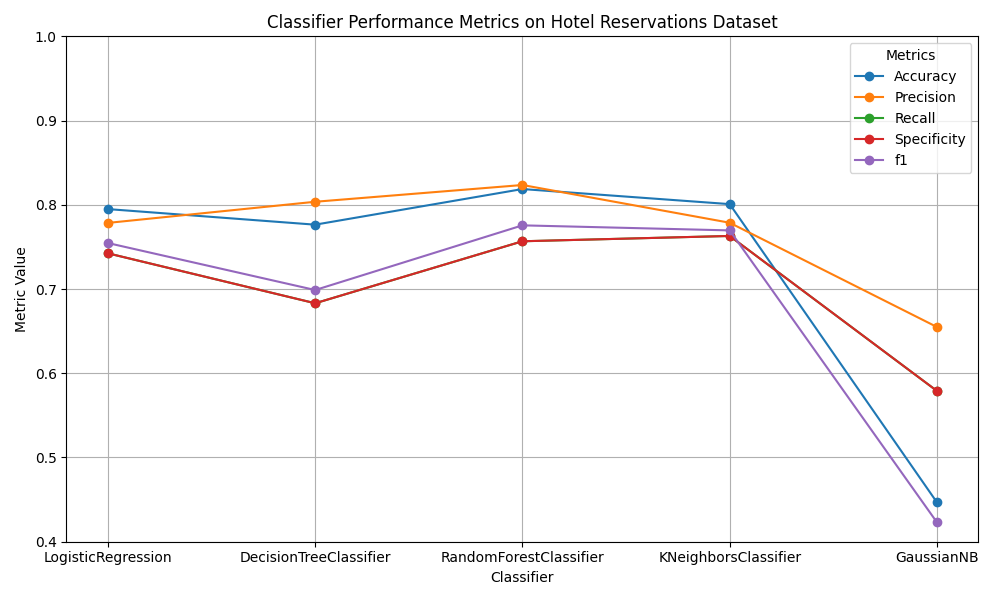
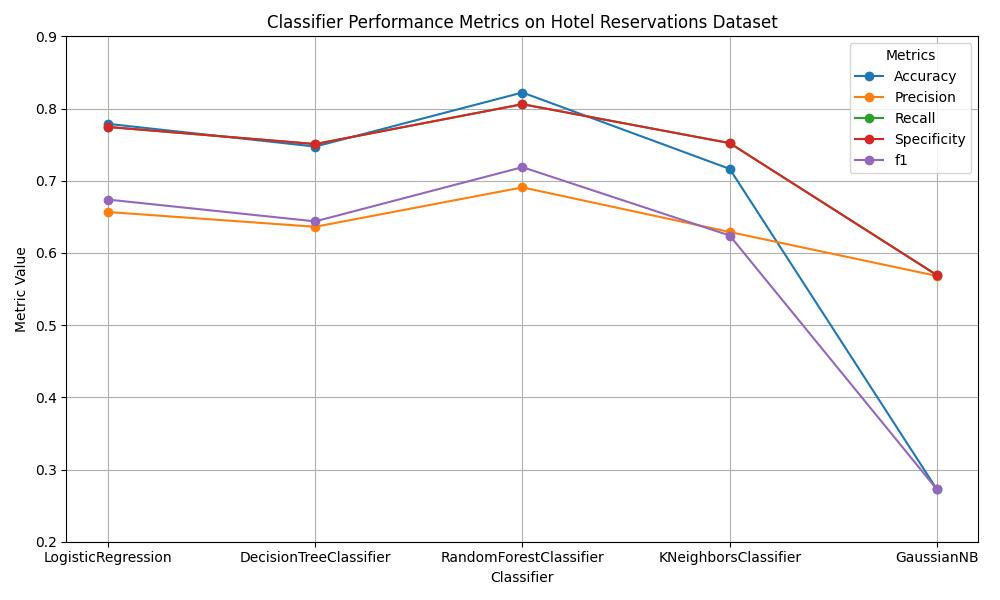
figure update

diff --git a/src/data_prep.py b/src/data_prep.py
@@ -1,6 +1,7 @@
 import numpy as np
 import pandas as pd
 from sklearn.model_selection import train_test_split
+from collections import Counter
 
 # 1. Load Data and Define the Features and Target
 pd.options.display.max_columns = None
@@ -32,6 +33,10 @@ df['market_segment_type'] = (
     np.where(df['market_segment_type'] == 'Complementary', 5, df['market_segment_type']))))))
 df["booking_status"] = np.where(df["booking_status"] == "Canceled", 0, 1)
 
+# Check if there is an imbalance in the classes present in your target variable
+xx = df['booking_status'].value_counts().reset_index()
+print(xx)
+
 X, y = (df[['no_of_adults', 'no_of_children', 'no_of_weekend_nights', 'no_of_week_nights',
             'type_of_meal_plan', 'required_car_parking_space', 'room_type_reserved', 'lead_time', 'arrival_year',
             'arrival_month', 'arrival_date', 'market_segment_type', 'repeated_guest', 'no_of_previous_cancellations',
@@ -39,4 +44,35 @@ X, y = (df[['no_of_adults', 'no_of_children', 'no_of_weekend_nights', 'no_of_wee
         df['booking_status'])
 
 # Split dataset into training and test sets
-X_train, X_test, y_train, y_test = train_test_split(X, y, test_size=0.2, random_state=42)
+X_train, X_test, y_train, y_test = train_test_split(X, y, test_size=0.2, random_state=42, stratify=y)
+
+print(f"Initial y_train class distribution: {Counter(y_train)}")
+print(f"Initial y_test class distribution: {Counter(y_test)}")
+
+# Balancing by moving samples (adjusting train-test split)
+num_class_0_train = sum(y_train == 0)
+num_class_1_train = sum(y_train == 1)
+
+# We want to move some samples from class 1 in y_train to y_test to balance it
+num_to_move = num_class_1_train - num_class_0_train
+
+# If there's an imbalance, move the excess samples to the test set
+if num_to_move > 0:
+    # Get indices of class 1 in the training set
+    class_1_indices_train = y_train[y_train == 1].index[:num_to_move]
+
+    # Move these indices from train to test
+    X_move = X_train.loc[class_1_indices_train]
+    y_move = y_train.loc[class_1_indices_train]
+
+    # Drop these indices from the training set
+    X_train = X_train.drop(class_1_indices_train)
+    y_train = y_train.drop(class_1_indices_train)
+
+    # Add them to the test set
+    X_test = pd.concat([X_test, X_move])
+    y_test = pd.concat([y_test, y_move])
+
+# Print the updated distribution
+print(f"Updated y_train class distribution: {Counter(y_train)}")
+print(f"Updated y_test class distribution: {Counter(y_test)}")

diff --git a/src/classifiers_all.py b/src/classifiers_all.py
@@ -66,7 +66,7 @@ for column in ['Accuracy', 'Precision', 'Recall', 'Specificity', 'f1']:
 plt.title('Classifier Performance Metrics on Hotel Reservations Dataset')
 plt.xlabel('Classifier')
 plt.ylabel('Metric Value')
-plt.ylim(0.4, 1)
+plt.ylim(0.2, 0.9)
 plt.legend(title='Metrics')
 plt.grid(True)
 
